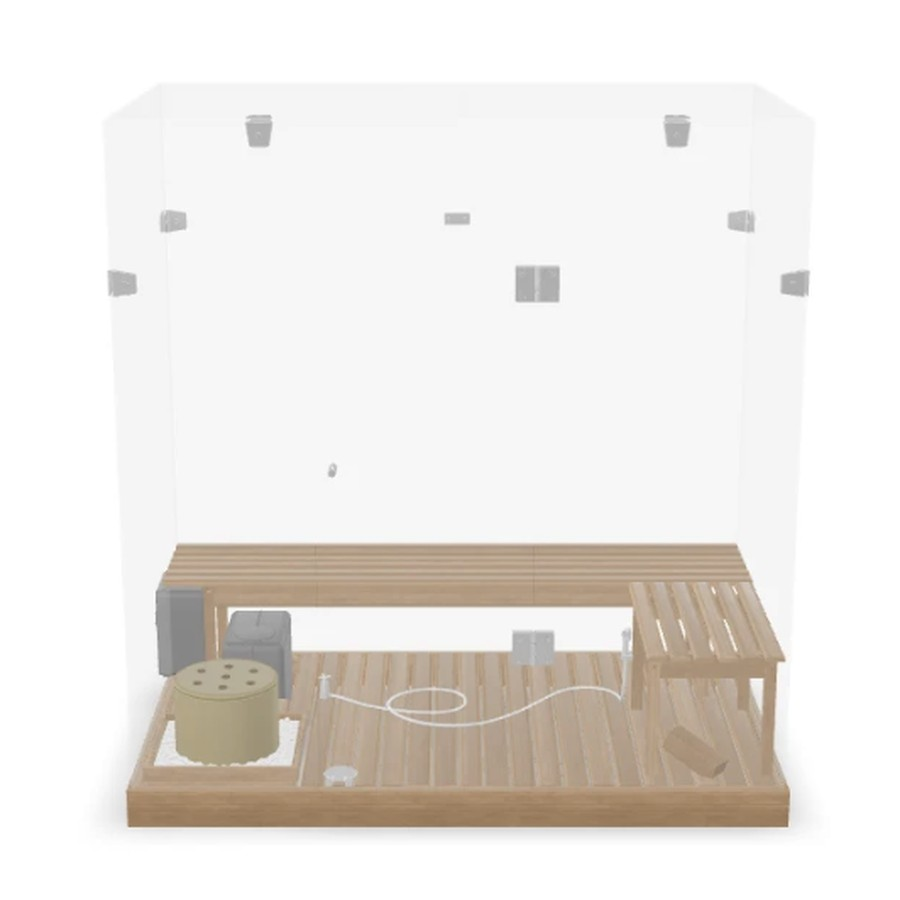
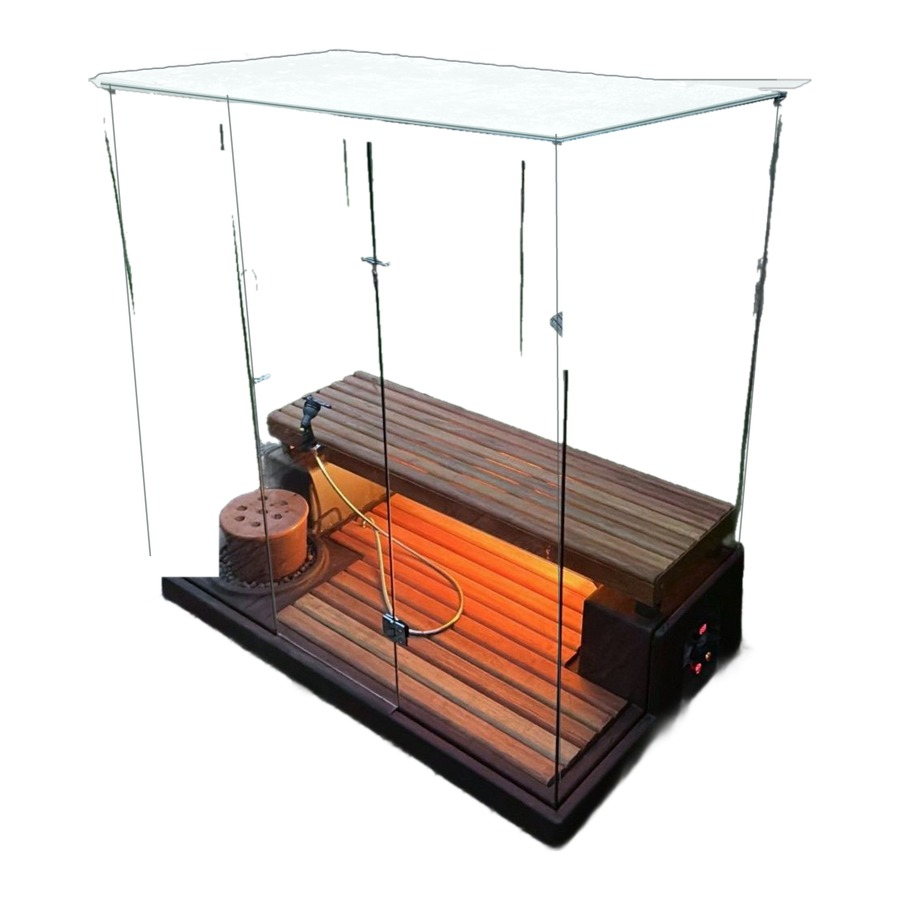
Use the white-background photo as the Eco-Sauna Mini Vidro's main image
Claude-Session: https://claude.ai/code/session_013j9AaPCNX2HUnpsdVgPoMo

diff --git a/product.html b/product.html
@@ -239,7 +239,7 @@ const P=[
  {n:'Redvion One',c:'sleep',s:'Blue-light blocking glasses',p:59.99,was:79.99,neu:1,d:'Glasses for people who want to sleep and recover better. They block 98% of screen blue light, help the body produce melatonin and reduce eye strain. Lightweight TR90 frames.'},
  {n:'SmartGoggles',c:'sleep',s:'Eye mask with heat and vibration · 2nd gen',p:169,was:209,d:'The redesigned SmartGoggles have a 100% blackout design and more comfort, with heat and vibration to help you switch off.'},
  {n:'Eco-Sauna Vidro',c:'sauna',s:'Glass steam sauna for up to 6 people',p:9990,cover:1,neu:1,note:'Installation not included',main:'eco-sauna-vidro-r.jpg',g:[['eco-sauna-vidro-4.jpg','Eco-Sauna Vidro on a wooden deck by a golf course'],['eco-sauna-vidro-5.jpg','Eco-Sauna Vidro lit at night under frangipani trees'],['eco-sauna-vidro-6.jpg','Eco-Sauna Vidro in a garden overlooking the city']],d:'A tempered-glass steam sauna with a 360° view, designed to blend into a garden, a terrace or an open space. It comes with an internal shower and interior lighting, and installation takes about three hours.',f:[['Size','172 × 172 × 180 cm (W × D × H)'],['Weight','380 kg'],['Capacity','Up to 6 people'],['Heater','Electric steam generator, 3,500 W, 220 V'],['Glass','8 mm tempered, smoked, green or clear'],['Wood','Treated Lyptus, Paraju or similar']]},
- {n:'Eco-Sauna Mini Vidro',c:'sauna',s:'Compact glass steam sauna for up to 3 people',p:6990,cover:1,neu:1,note:'Installation not included',main:'eco-sauna-mini-vidro-r.jpg',g:[['eco-sauna-mini-vidro-4.jpg','Eco-Sauna Mini Vidro lit up on a garden deck at dusk'],['eco-sauna-mini-vidro-5.jpg','Eco-Sauna Mini Vidro in green glass on a deck among palms'],['eco-sauna-mini-vidro-6.jpg','Eco-Sauna Mini Vidro in frosted glass inside a bathroom'],['eco-sauna-mini-vidro-7.jpg','Eco-Sauna Mini Vidro on a garden lawn']],d:'The compact version of the Eco-Sauna, made for balconies, terraces, small gardens and indoor spaces. Tempered glass, an internal shower and interior lighting, for up to 3 people. Installed in about 3 hours.',f:[['Height','180 cm'],['Width','172 cm'],['Depth','100 cm'],['Weight','290 kg'],['Installation time','3 hours'],['Capacity','Up to 3 people'],['Warranty','3 years'],['Current','20 A'],['Voltage','220 V'],['Power','3,500 W']]},
+ {n:'Eco-Sauna Mini Vidro',c:'sauna',s:'Compact glass steam sauna for up to 3 people',p:6990,cover:1,neu:1,note:'Installation not included',main:'eco-sauna-mini-vidro.jpg',g:[['eco-sauna-mini-vidro-r.jpg','Eco-Sauna Mini Vidro 3D view'],['eco-sauna-mini-vidro-4.jpg','Eco-Sauna Mini Vidro lit up on a garden deck at dusk'],['eco-sauna-mini-vidro-5.jpg','Eco-Sauna Mini Vidro in green glass on a deck among palms'],['eco-sauna-mini-vidro-6.jpg','Eco-Sauna Mini Vidro in frosted glass inside a bathroom'],['eco-sauna-mini-vidro-7.jpg','Eco-Sauna Mini Vidro on a garden lawn']],d:'The compact version of the Eco-Sauna, made for balconies, terraces, small gardens and indoor spaces. Tempered glass, an internal shower and interior lighting, for up to 3 people. Installed in about 3 hours.',f:[['Height','180 cm'],['Width','172 cm'],['Depth','100 cm'],['Weight','290 kg'],['Installation time','3 hours'],['Capacity','Up to 3 people'],['Warranty','3 years'],['Current','20 A'],['Voltage','220 V'],['Power','3,500 W']]},
  {n:'MaxPerformance Test',c:'bio',s:'At-home blood test · 10 biomarkers',p:100.81,neu:1,cover:1,g:[['maxperformance-test-kit.jpg','Everything inside the MaxPerformance Test kit']],d:'An in-depth blood test for athletes and active people who want to optimise performance and recovery. It measures ten key biomarkers that show how your hormones, metabolism and heart health respond to training, so you can adjust training and diet with real data. A small finger-prick sample, collected at home and analysed by a certified laboratory.',f:[['Biomarkers','Cortisol, Free Testosterone, Total Testosterone, Cholesterol, LDL-C, HDL-C, Triglycerides, Vitamin D, Creatinine, AST'],['Sample','Finger-prick blood, collected at home (about two small tubes)'],['Before the test','Fast beforehand. Collect before 11:30 am, Monday to Thursday, and post the sample the same day'],['In the kit','Everything you need to collect and return the sample, prepaid return to the lab, instructions and videos'],['Results','Digital report by email within 5 working days of the lab receiving your sample'],['Laboratory','Lab in the Box']]},
  {n:'Ladata Body Oil',c:'care',s:'Muscles & Mind Recovery',p:20,main:'ladata-body-oil-w.jpg',neu:1,d:'Our own body oil, made for the end of a recovery session. Massage it into warm muscles after the sauna or a massage gun session.',f:[['Made by','Ladata'],['Values','Zero-waste, vegan, cruelty-free']]},
 ];
